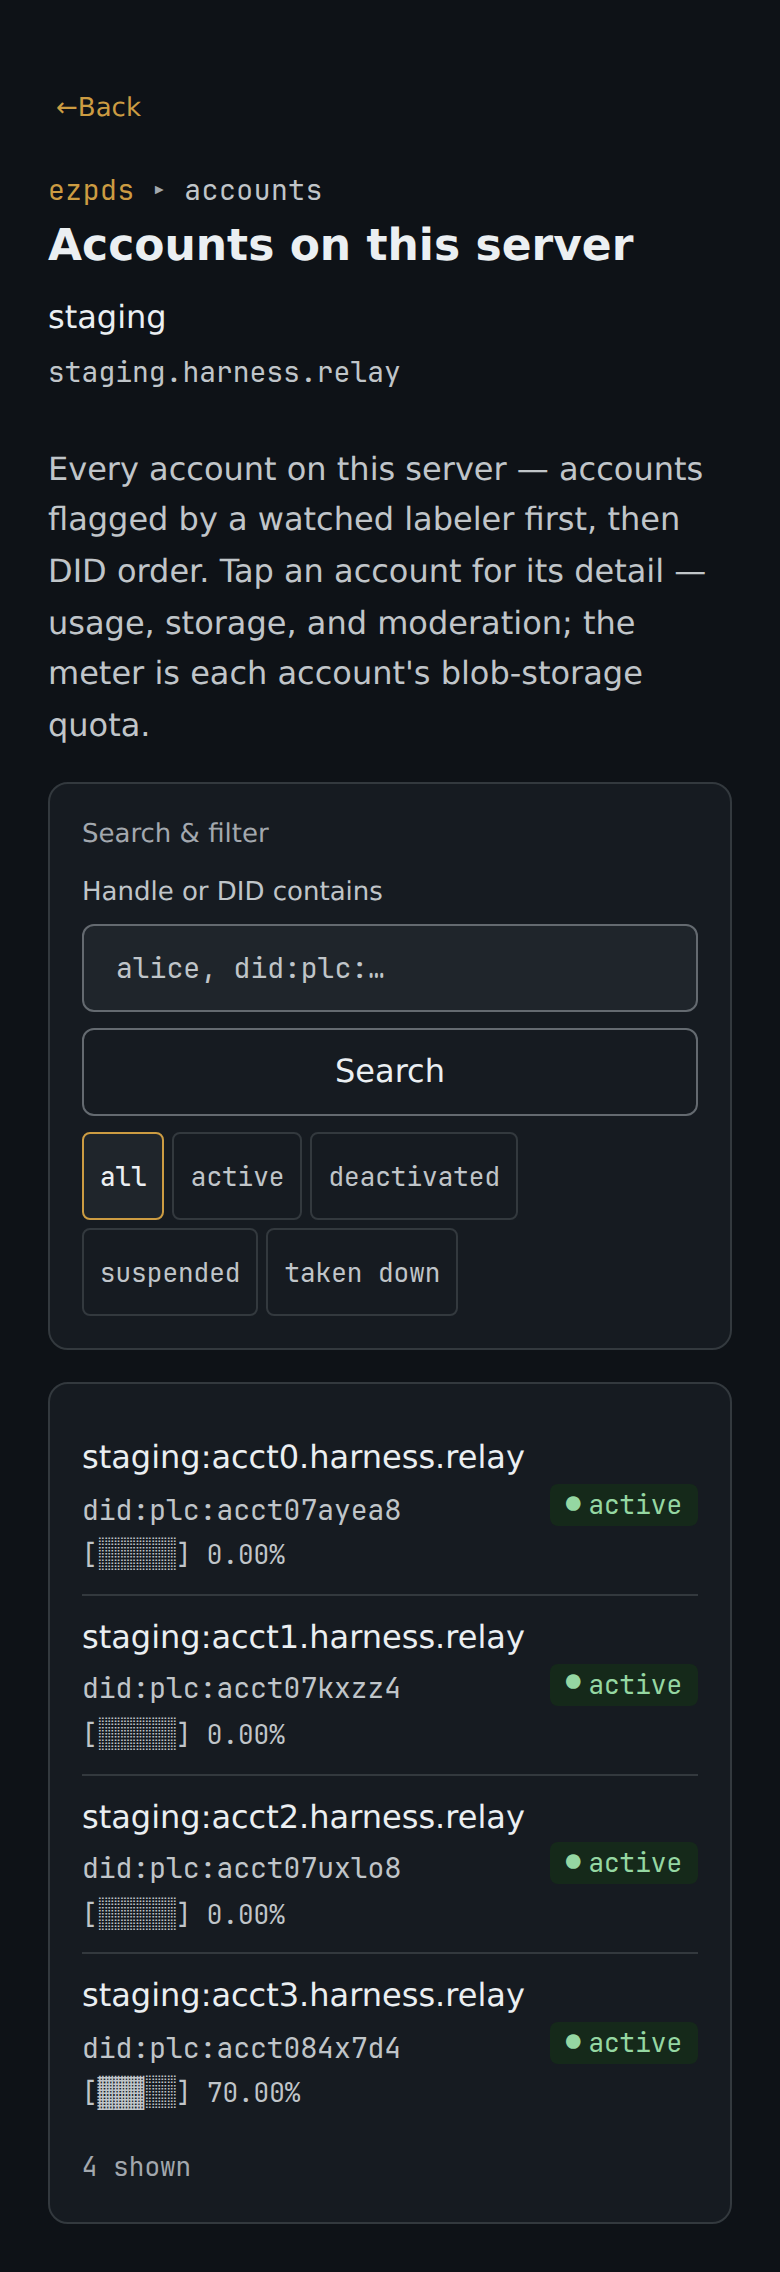
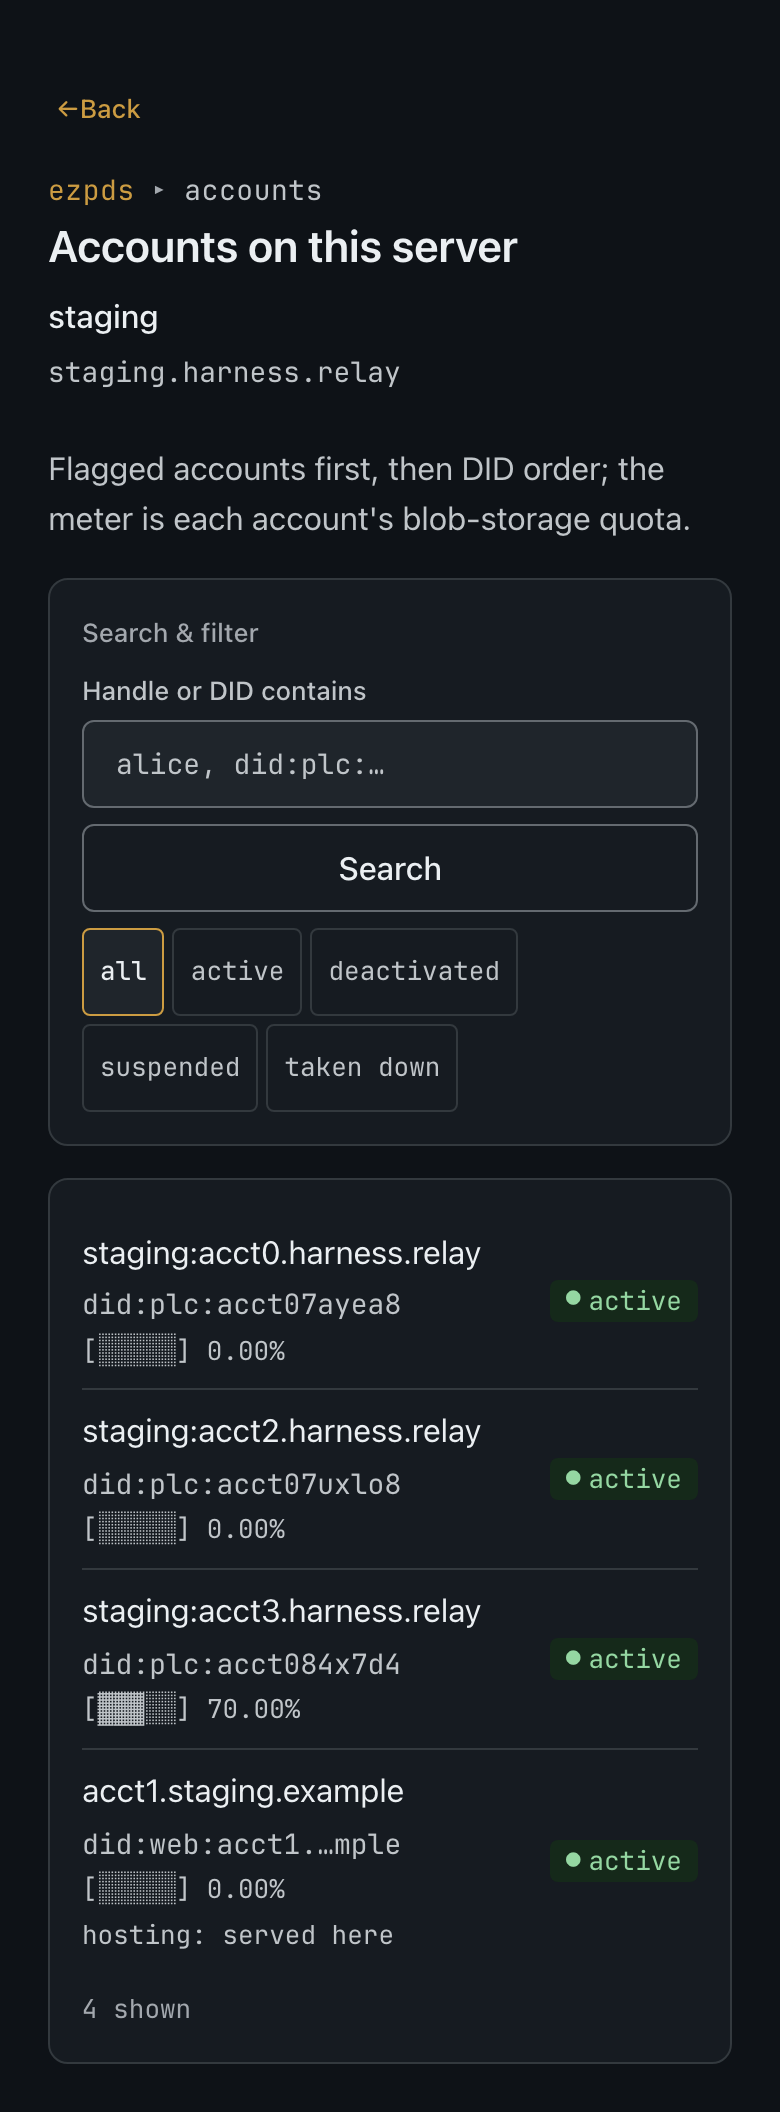
docs(screenshots): follow the wallet's rewritten copy, refresh both baselines
`just docs-screenshots-check` had gone red on main in two independent ways.

The wallet's writing-style voice pass rewrote the onboarding IA out from under
the manifest: the welcome screen became one situation question ("What's your
situation?") whose doors no longer name the machinery, the identity screen
became a hub with backups and the DID document a tier further in, and an
unreversed change now takes the app over on launch instead of waiting on home.
Twelve of eighteen wallet shots timed out on text that no longer exists, and
`identity-detail` silently captured the hub screen because "DID document"
survived as the hub row's own subtitle. Every step chain is re-pinned to the
current labels; `home-alert` and `alert-detail` swap order to match the new
takeover, and the load-error wait drops the leading word so a typographic
apostrophe can't break the match again.

The admin baselines were simply stale: the descriptive screen ledes removed in
the voice-tells pass (#505) shorten most routes, which is why several differ in
dimensions rather than pixels. All 31 shots are regenerated and re-verified
byte-identical on a second run.

Entire-Checkpoint: f37bde803c85

diff --git a/sites/docs/src/content/docs/user/screens.md b/sites/docs/src/content/docs/user/screens.md
@@ -179,6 +179,6 @@ Opening the alert shows the change and a live countdown of the 72-hour recovery 
 Local failures are surfaced inline with a way to retry, never a dead end.
 
 <figure>
-  <img src="/screenshots/wallet/home-load-error.png" alt="Obsign home screen showing an inline 'Failed to load identities' error with a Try again button" width="280" />
+  <img src="/screenshots/wallet/home-load-error.png" alt="Obsign home screen showing an inline “Couldn’t load your identities” error with a Try again button" width="280" />
   <figcaption>An injected local failure surfaces inline with a retry, never a dead end.</figcaption>
 </figure>
